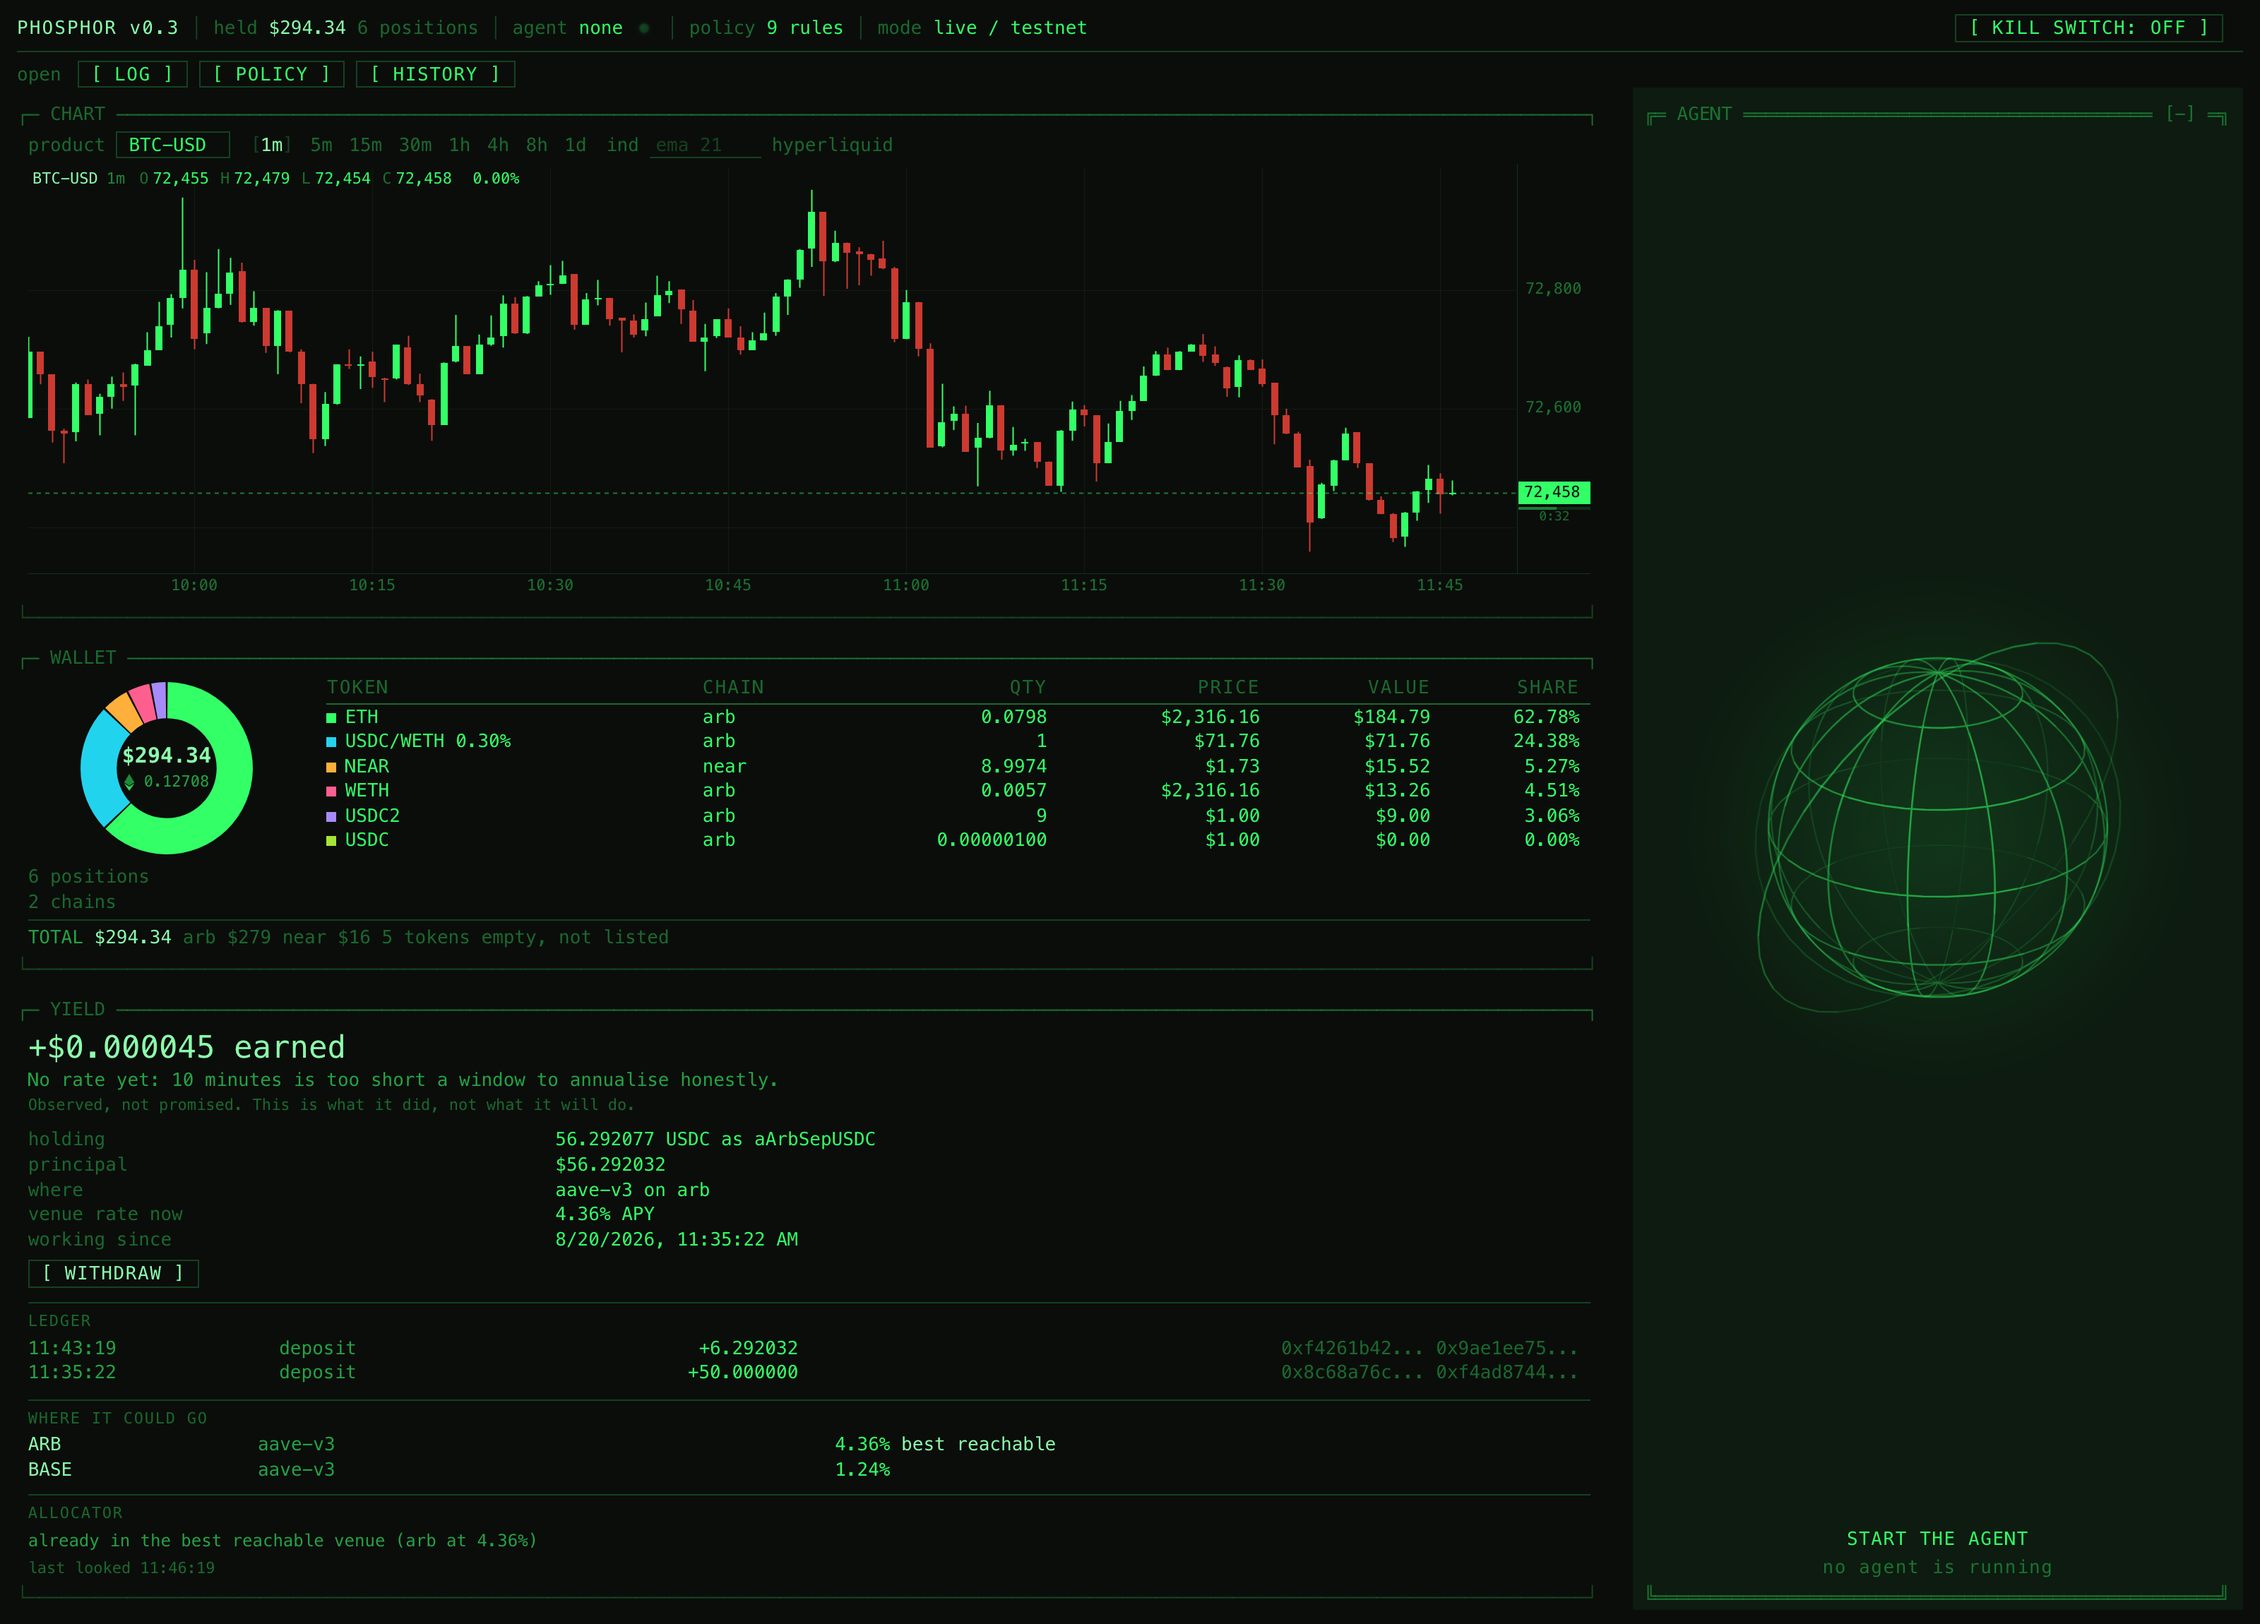
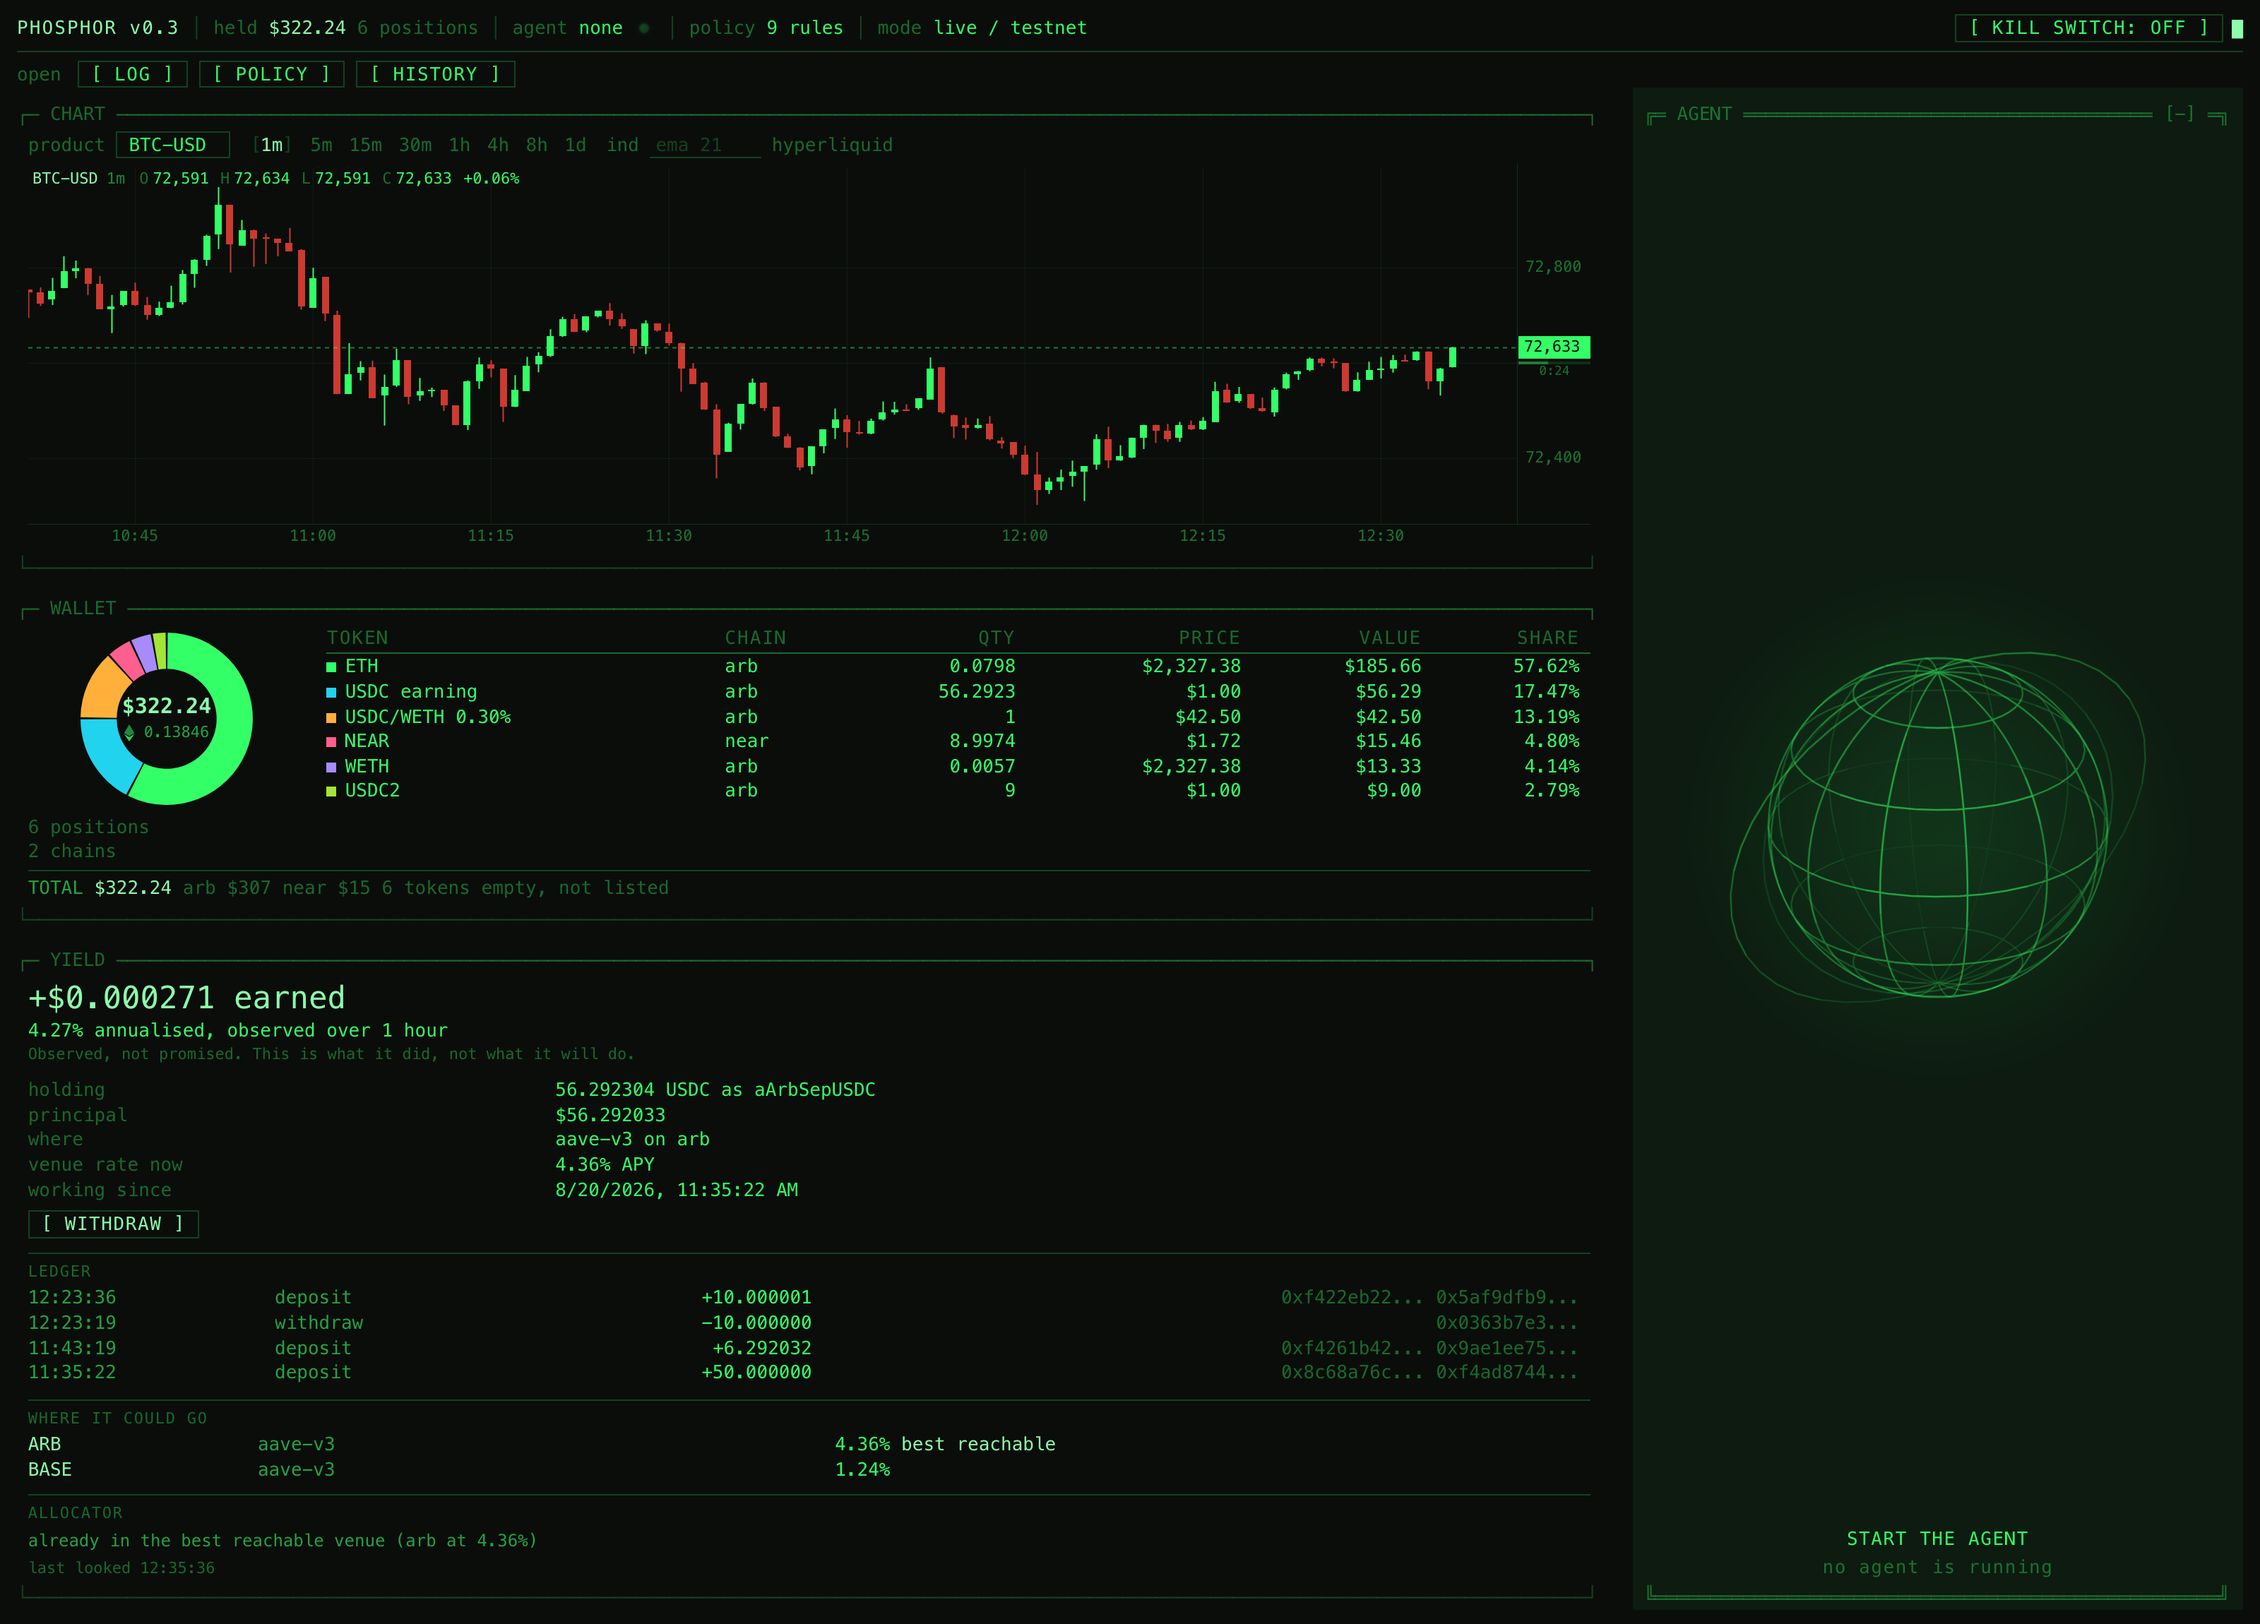
Proof: a full round trip, a rate that matches the pool, and a button that closed it

diff --git a/docs/superpowers/specs/2026-08-20-stablecoin-yield.md b/docs/superpowers/specs/2026-08-20-stablecoin-yield.md
@@ -330,5 +330,36 @@ window and $46 only for the last minute.
 `=off` and `=no` all switched the money-moving loop ON. For a flag whose whole design is "off
 unless a human said otherwise", anything but an explicit yes has to mean no.
 
-Still to record here: the panel with a percentage on it. The window has to pass one hour before
-one is shown at all, which is the feature working rather than a gap in the evidence.
+**The percentage appeared at one hour, and it agrees with the pool.**
+
+    12:35:22  window 1 hour   earned $0.000271   REALIZED 4.2672% annualised
+    the reserve's own stated rate at that moment:  4.2687% APR
+
+Those two numbers were arrived at independently. One is the pool reporting what it pays; the
+other is this app dividing a balance it watched grow by a cost basis it derived from its own
+proposal store. They agree to three decimal places, which is the whole claim of the feature.
+
+Below one hour the panel showed "No rate yet: 47 minutes is too short a window to annualise
+honestly" for the entire preceding hour, which is the refusal working rather than a gap.
+
+**The button closed the position, clicked in the real window.** Driven through a real page
+holding the real per-boot session token, which is the same path a finger takes:
+
+    12:37:16  yield_withdraw 54246470, verdict allow
+              "withdraw all USDC from Aave v3. 56.292312 USDC arrived in the wallet on arb."
+
+    aArbSepUSDC balance after:  0
+    wallet USDC after:          56.292312
+    principal ever supplied:    56.292033
+    kept as interest:            0.000279
+
+**The whole sequence, which is the feature's actual story:**
+
+    11:35  deposit  +50.000000   by hand, through the proposal service
+    11:43  deposit   +6.292032   BY THE LOOP: it found the swap's leftover USDC idle
+    12:23  withdraw -10.000000   by hand, partial, to leave the window open
+    12:23  deposit  +10.000001   BY THE LOOP: it found that 10 idle and put it back
+    12:37  withdraw -56.292312   THE BUTTON, whole position, interest included
+
+Two of those five were the bot acting on its own, and every one of them went through the same
+policy engine, the same audit log and the same proposal store as an agent's would.
